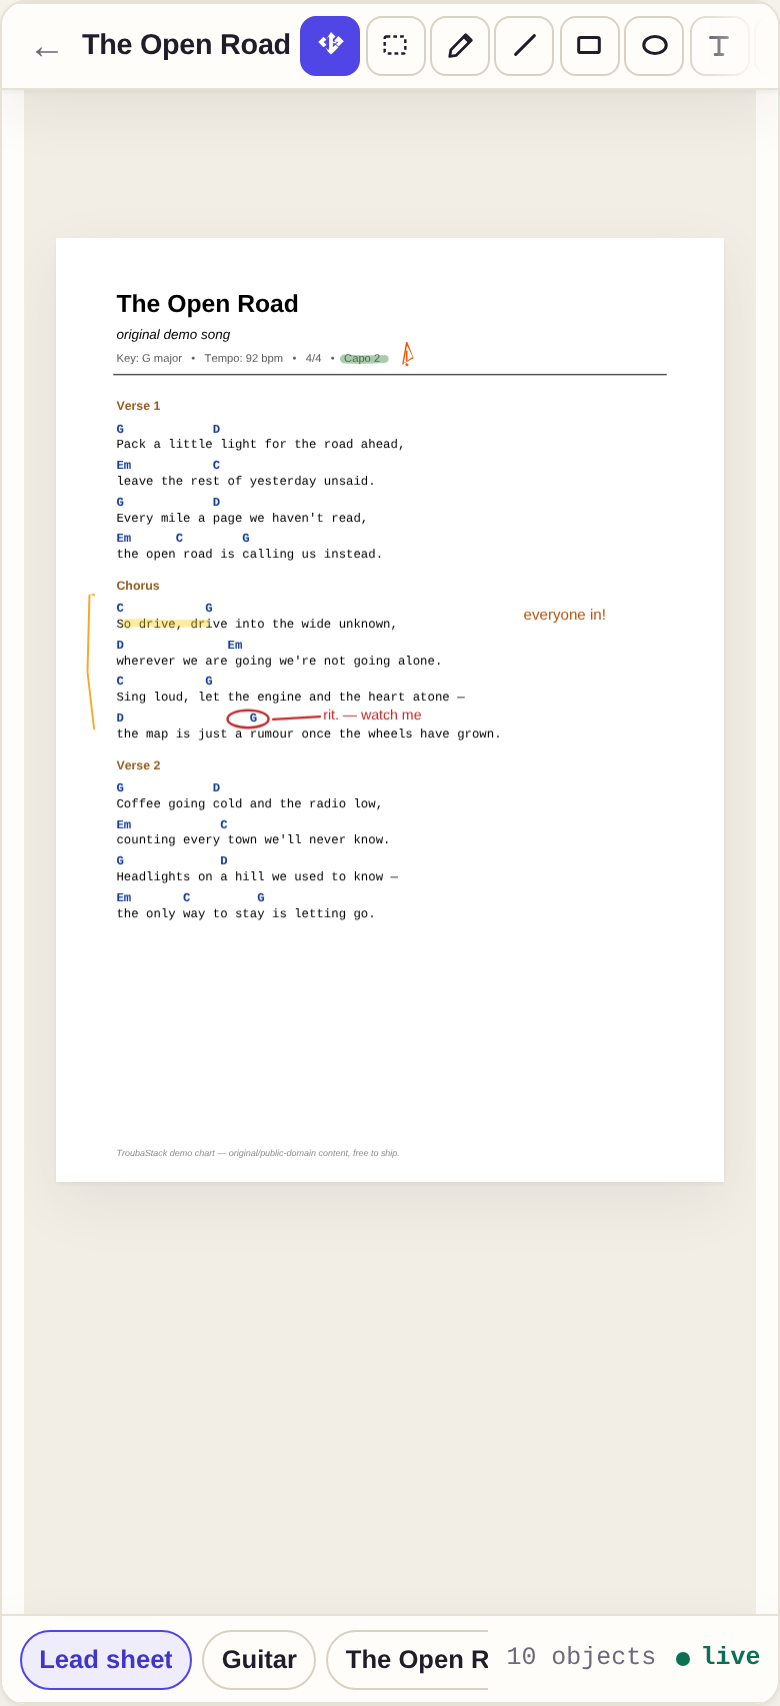
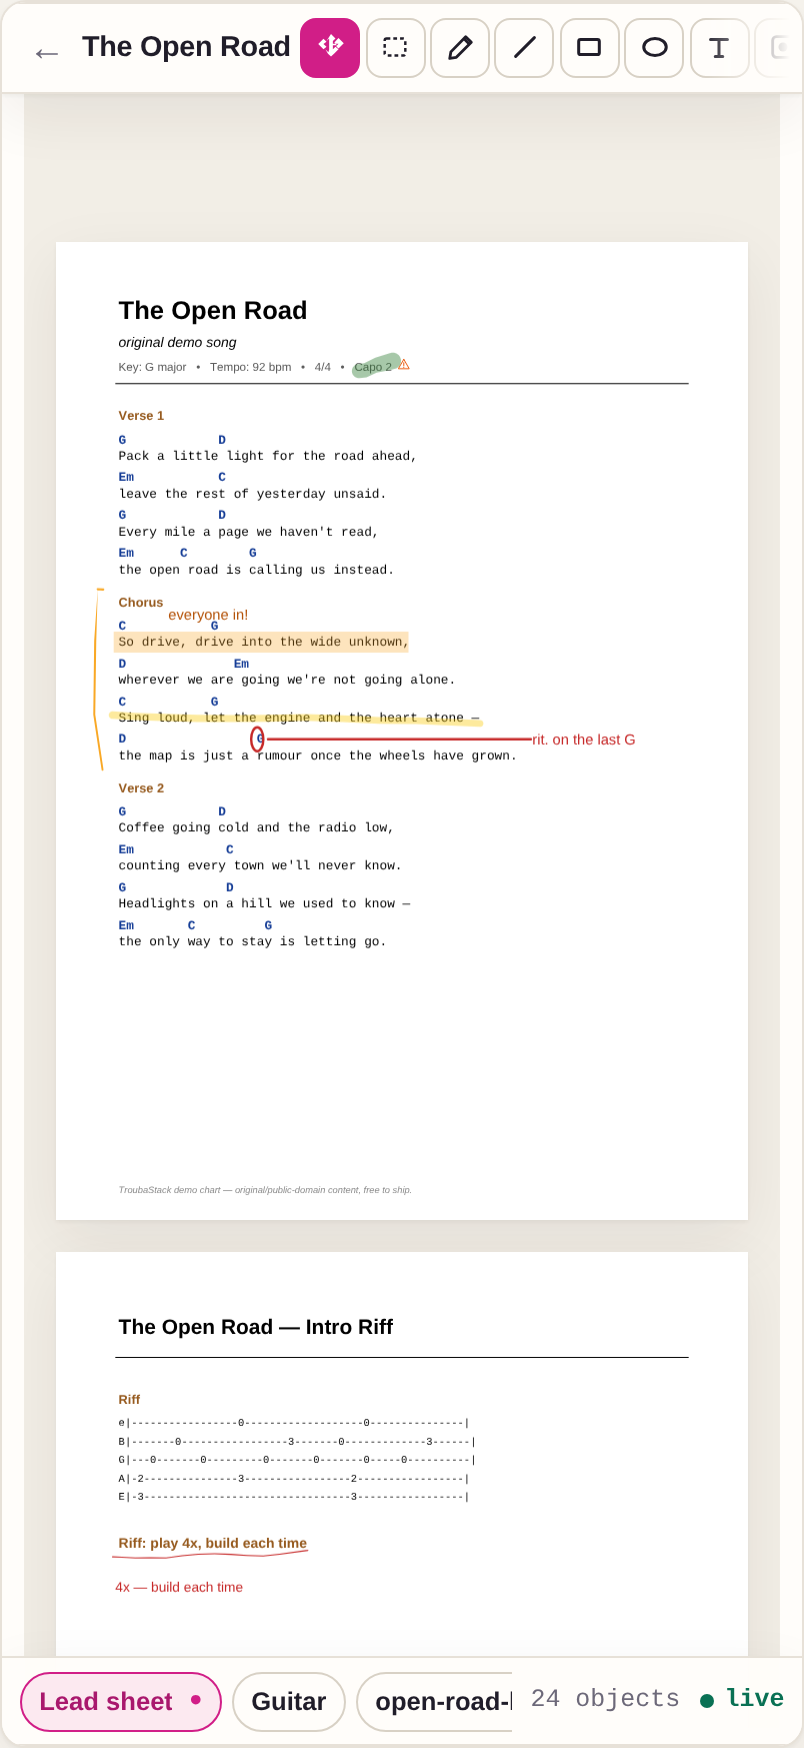
site: refresh the two Studio screenshots from a clean demo server
VLL asked for new screenshots. These two are captured from a scratch server on :8099 with its OWN data dir,
seeded with the synthetic demo cast and nothing else -- verified before capturing: the store holds "The
Troubadours" and "City Chamber Orchestra", users marie/leo/sasha, and none of the real band library. His
live :8080 was never touched.

That is the discipline build.sh already states for this allow-list: "a public page must carry only what has
been looked at". So I looked at both, full size, before installing them -- and the first editor capture was
discarded because it caught the score mid-render, showing "Loading...". The one installed shows the demo
chart with its annotations, and the chart's own footer reads "TroubaStack demo chart -- original/
public-domain content, free to ship".

band-overview is now 804x2424 (was 804x1748: the demo band has more members and songs than when it was last
taken) and studio-editor 804x1748 (was 780x1706). index.html's declared width/height are updated to match --
stale intrinsic sizes shift the layout while the image loads.

NOT refreshed here: the three stage-*.png. They come from the mobile app, and the concerts LIST would show
VLL's real concert alongside the demo one on his tablet -- a public page must not carry that. They need a
clean device or an emulator holding only docs/demo/demo-concert.tstage; see the gate note.

Authorised-by: VLL (2026-09-08, "fais les screenshots avec les donnees de demo").

diff --git a/web/site/index.html b/web/site/index.html
@@ -546,7 +546,7 @@ footer a { color: var(--l3-ink); text-decoration-thickness: 1px; text-underline-
     </div>
 
     <figure class="hero-shot">
-      <img src="assets/studio-editor.png" width="780" height="1706"
+      <img src="assets/studio-editor.png" width="804" height="1748"
            alt="The TroubaStudio editor on a phone: the lead sheet “The Open Road” with chords over lyrics, a green highlight on “Capo 2” with a warning sign, a gold bracket down the chorus, a red conductor cue ringing a G chord with “rit. — watch me”, and the tool strip above the score.">
       <figcaption class="shot-note">TroubaStudio · live annotation · 10 objects</figcaption>
     </figure>
@@ -636,7 +636,7 @@ footer a { color: var(--l3-ink); text-decoration-thickness: 1px; text-underline-
   <div class="wrap">
     <div class="split flip">
       <div class="shot crop">
-        <img src="assets/band-overview.png" width="804" height="1748"
+        <img src="assets/band-overview.png" width="804" height="2424"
              alt="A band page in TroubaStudio: the band “The Troubadours”, three members with their roles — admin, conductor, member — and the songs list.">
       </div>
       <div>
